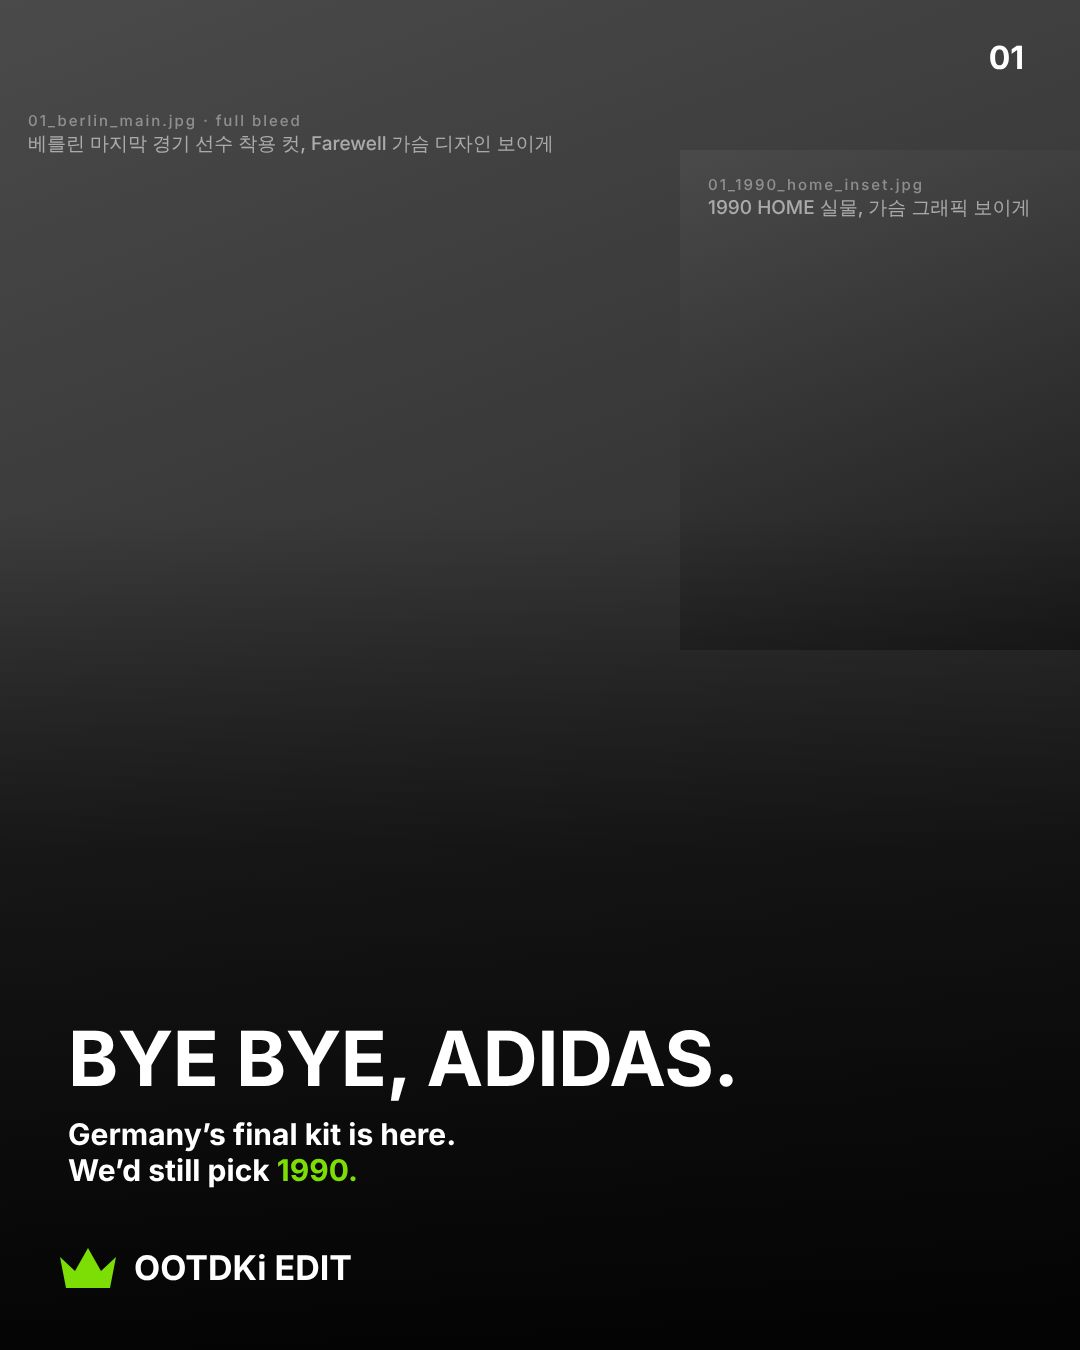
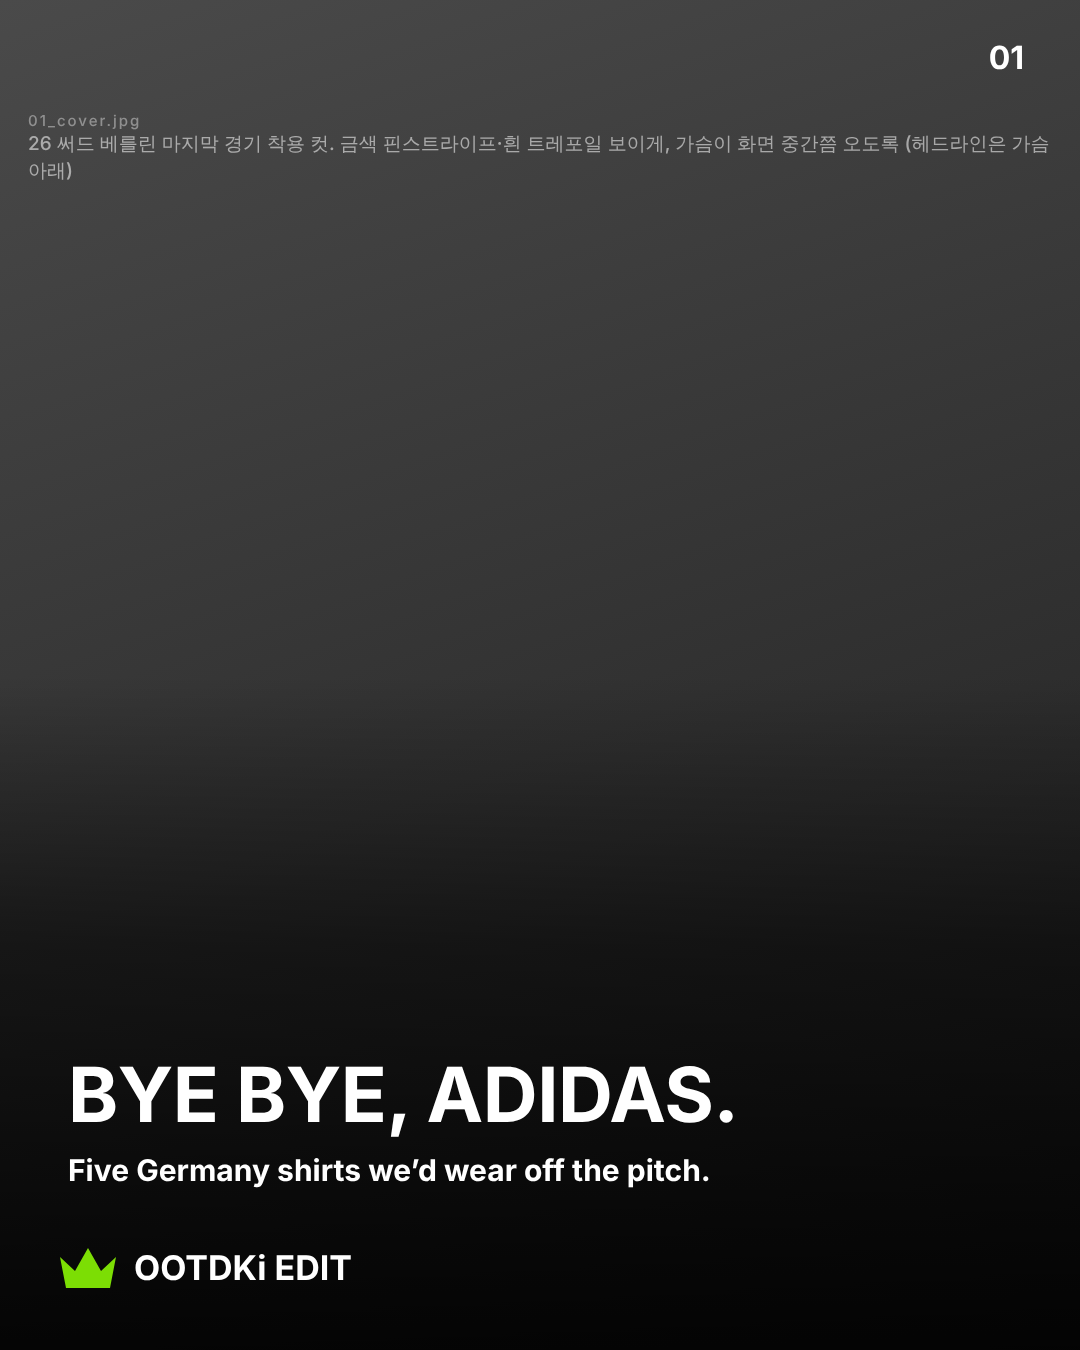
Carousel v3: 90H/94H/22H/26H/26 third lineup, 1/3 jersey + 2/3 look split
Claude-Session: https://claude.ai/code/session_01GpgvCArn8CBuwwCWMsWG9F

Changed region(s): [[0.0611, 0.7467, 0.6722, 0.9022], [0.6417, 0.0933, 0.9778, 0.1556], [0.0306, 0.0933, 0.6111, 0.1244]]

diff --git a/carousel_bye_bye_adidas/carousel.html b/carousel_bye_bye_adidas/carousel.html
@@ -21,104 +21,70 @@ h1{font-size:76px;line-height:1.02;text-transform:uppercase;letter-spacing:-.5px
 .g{color:var(--lime)}
 .foot{position:absolute;left:60px;bottom:62px;display:flex;align-items:center;gap:18px;font-size:34px;z-index:5}
 .crown{width:56px;height:40px}
+.pair{position:absolute;left:20px;z-index:4;font-size:26px;background:#000;color:#fff;padding:4px 10px}
+.card:not(:first-child) .ph .note{top:110px}
 </style></head><body>
 <svg width="0" height="0" style="position:absolute"><defs><symbol id="crown" viewBox="0 0 56 40"><path fill="#7CDE04" d="M0 9l15 14L28 0l13 23 15-14-6 31H6z"/></symbol></defs></svg>
 
-<!-- 01 COVER -->
+<!-- 01 COVER: 26 third, Berlin -->
 <section class="card">
-  <div class="ph" style="inset:0;--img:url(photos/01_berlin_main.jpg)"><p class="note"><i>01_berlin_main.jpg · full bleed</i>베를린 마지막 경기 선수 착용 컷, Farewell 가슴 디자인 보이게</p></div>
-  <div class="ph" style="right:0;top:150px;width:400px;height:500px;--img:url(photos/01_1990_home_inset.jpg)"><p class="note" style="top:24px"><i>01_1990_home_inset.jpg</i>1990 HOME 실물, 가슴 그래픽 보이게</p></div>
-  <div class="shade"></div>
+  <div class="ph" style="inset:0;--img:url(photos/01_cover.jpg)"><p class="note"><i>01_cover.jpg</i>26 써드 베를린 마지막 경기 착용 컷. 금색 핀스트라이프·흰 트레포일 보이게, 가슴이 화면 중간쯤 오도록 (헤드라인은 가슴 아래)</p></div>
+  <div class="shade" style="height:50%"></div>
   <span class="num">01</span>
-  <div class="text">
-    <h1>Bye bye, adidas.</h1>
-    <p class="body">Germany’s final kit is here.<br>We’d still pick <span class="g">1990.</span></p>
-  </div>
+  <div class="text"><h1>Bye bye, adidas.</h1><p class="body">Five Germany shirts we’d wear off the pitch.</p></div>
   <div class="foot"><svg class="crown"><use href="#crown"/></svg>OOTDKi EDIT</div>
 </section>
-
-<!-- 02 LAST MATCH -->
 <section class="card">
-  <div class="ph" style="left:0;top:0;width:1080px;height:640px;--img:url(photos/02_match.jpg)"><p class="note"><i>02_match.jpg</i>11월 16일 베를린 경기 사진 1장</p></div>
-  <div class="ph" style="left:0;top:640px;width:540px;height:710px;--img:url(photos/02_dfb_crest.jpg)"><p class="note" style="top:24px"><i>02_dfb_crest.jpg</i>옛 DFB 문장 확대 (칸 위쪽 1/2에 오도록)</p></div>
-  <div class="ph" style="left:540px;top:640px;width:540px;height:710px;--img:url(photos/02_trefoil.jpg)"><p class="note" style="top:24px"><i>02_trefoil.jpg</i>트레포일 확대 (칸 위쪽 1/2에 오도록)</p></div>
-  <div class="shade" style="height:48%"></div>
+  <div class="ph" style="left:0;top:0;width:360px;height:1350px;--img:url(photos/02_jersey.jpg)"><p class="note"><i>02_jersey.jpg</i>1990 서독 홈 정면. 가슴 삼색 그래픽 전체가 보이게</p></div>
+  <div class="ph" style="left:360px;top:0;width:720px;height:1350px;--img:url(photos/02_look.jpg)"><p class="note"><i>02_look.jpg</i>전신(신발까지): 중청 스트레이트 진, 앞단만 턱인, 빨간 발레 플랫</p></div>
+  <div class="shade"></div>
   <span class="num">02</span>
-  <div class="text">
-    <h1>One last night<br>in Berlin.</h1>
-    <p class="body">Germany beat the Netherlands 5–0 in their final men’s match wearing adidas. Nike takes over in January 2027.</p>
-  </div>
+  <div class="text"><p class="lab"><span style="text-transform:none">OOTDKi</span> No.1 · 1990 West Germany Home</p><h1 style="margin-top:10px">Our all-time<br>favourite.</h1><p class="body">Blue jeans. Red ballet flats.<br>That zigzag does the rest.</p></div>
   <div class="foot"><svg class="crown"><use href="#crown"/></svg>OOTDKi EDIT</div>
 </section>
-
-<!-- 03–06: left = jersey front, right = KL full look. Two photos flush, no gutter. -->
 <section class="card">
-  <div class="ph" style="left:0;top:0;width:540px;height:1350px;--img:url(photos/03_jersey.jpg)"><p class="note"><i>03_jersey.jpg</i>1990 서독 홈 저지 정면</p></div>
-  <div class="ph" style="left:540px;top:0;width:540px;height:1350px;--img:url(photos/03_look.jpg)"><p class="note"><i>03_look.jpg</i>KL 전신(신발까지): 중청 스트레이트 데님, 앞단 턱인, 빨간 플랫</p></div>
+  <div class="ph" style="left:0;top:0;width:360px;height:1350px;--img:url(photos/03_jersey.jpg)"><p class="note"><i>03_jersey.jpg</i>1994 독일 홈 정면. 양쪽 어깨 다이아몬드 패턴이 모두 보이게</p></div>
+  <div class="ph" style="left:360px;top:0;width:720px;height:1350px;--img:url(photos/03_look.jpg)"><p class="note"><i>03_look.jpg</i>정면에 가까운 전신: 루즈하게, 블랙 데님 미니, 흰 양말, 검정 로퍼</p></div>
   <div class="shade"></div>
   <span class="num">03</span>
-  <div class="text">
-    <p class="lab"><span style="text-transform:none">OOTDKi</span> NO.1 · 1990 West Germany Home</p>
-    <h1 style="margin-top:10px">The one we’d keep.</h1>
-    <p class="body">Blue jeans. Red flats.<br>Let the chest graphic do the rest.</p>
-  </div>
+  <div class="text"><p class="lab">1994 Germany Home</p><h1 style="margin-top:10px">Let the shoulders<br>do the talking.</h1><p class="body">Wear it loose over a black denim mini.</p></div>
   <div class="foot"><svg class="crown"><use href="#crown"/></svg>OOTDKi EDIT</div>
 </section>
-
 <section class="card">
-  <div class="ph" style="left:0;top:0;width:540px;height:1350px;--img:url(photos/04_jersey.jpg)"><p class="note"><i>04_jersey.jpg</i>1990 서독 그린 원정 저지 정면</p></div>
-  <div class="ph" style="left:540px;top:0;width:540px;height:1350px;--img:url(photos/04_look.jpg)"><p class="note"><i>04_look.jpg</i>KL 전신: 아이보리 긴팔 이너, 크림 롱스커트, 오트 히잡, 밑단 내려 입기</p></div>
+  <div class="ph" style="left:0;top:0;width:360px;height:1350px;--img:url(photos/04_jersey.jpg)"><p class="note"><i>04_jersey.jpg</i>2022 독일 홈 정면. 가슴 중앙 검정 세로 띠가 온전히 보이게</p></div>
+  <div class="ph" style="left:360px;top:0;width:720px;height:1350px;--img:url(photos/04_look.jpg)"><p class="note"><i>04_look.jpg</i>전신: 전부 턱인, 블랙 와이드 슬랙스, 얇은 검정 샌들 (띠가 팬츠로 이어지게)</p></div>
   <div class="shade"></div>
   <span class="num">04</span>
-  <div class="text">
-    <p class="lab">1990 West Germany Away</p>
-    <h1 style="margin-top:10px">Same year.<br>I’d take the green.</h1>
-    <p class="body">Wear it loose over a cream column skirt.</p>
-  </div>
+  <div class="text"><p class="lab">2022 Germany Home</p><h1 style="margin-top:10px">Follow the<br>black stripe.</h1><p class="body">Tuck it into black wide-leg trousers.</p></div>
   <div class="foot"><svg class="crown"><use href="#crown"/></svg>OOTDKi EDIT</div>
 </section>
-
 <section class="card">
-  <div class="ph" style="left:0;top:0;width:540px;height:1350px;--img:url(photos/05_jersey.jpg)"><p class="note"><i>05_jersey.jpg</i>2024 독일 원정 저지 정면</p></div>
-  <div class="ph" style="left:540px;top:0;width:540px;height:1350px;--img:url(photos/05_look.jpg)"><p class="note"><i>05_look.jpg</i>KL 전신: 밑단 빼 입기, 워시드 블랙 무릎 쇼츠, 실버 스니커즈</p></div>
+  <div class="ph" style="left:0;top:0;width:360px;height:540px;--img:url(photos/05_pattern_94.jpg)"><p class="note"><i>05_pattern_94.jpg</i>94 홈 패턴 크롭 (아래 26 홈과 같은 배율)</p></div>
+  <div class="ph" style="left:0;top:540px;width:360px;height:810px;--img:url(photos/05_pattern_26.jpg)"><p class="note" style="top:70px"><i>05_pattern_26.jpg</i>26 홈 패턴 크롭 (칸 위쪽 540px 안에 패턴, 94와 같은 배율)</p></div>
+  <span class="pair" style="top:500px">’94</span><span class="pair" style="top:560px">’26</span>
+  <div class="ph" style="left:360px;top:0;width:720px;height:1350px;--img:url(photos/05_look.jpg)"><p class="note"><i>05_look.jpg</i>모디스트 전신: 여유 있는 26 홈, 아이보리 손목 길이 이너, 스톤 맥시스커트(불투명), 가슴 덮는 오트 히잡</p></div>
   <div class="shade"></div>
   <span class="num">05</span>
-  <div class="text">
-    <p class="lab">2024 Germany Away</p>
-    <h1 style="margin-top:10px">Pink jersey.<br>Silver shoes.</h1>
-    <p class="body">Add washed-black jorts and you’re ready for a weekend in KL.</p>
-  </div>
+  <div class="text"><p class="lab">2026 Germany Home</p><h1 style="margin-top:10px">Spot the<br>’94 throwback.</h1><p class="body">Try the new zigzag with a stone maxi skirt.</p></div>
   <div class="foot"><svg class="crown"><use href="#crown"/></svg>OOTDKi EDIT</div>
 </section>
-
 <section class="card">
-  <div class="ph" style="left:0;top:0;width:540px;height:1350px;--img:url(photos/06_jersey.jpg)"><p class="note"><i>06_jersey.jpg</i>Farewell 서드 가슴 디테일 크게: 옛 DFB 문장 + 트레포일</p></div>
-  <div class="ph" style="left:540px;top:0;width:540px;height:1350px;--img:url(photos/06_look.jpg)"><p class="note"><i>06_look.jpg</i>KL 전신: 검정 플리츠 트라우저에 턱인, 얇은 로퍼</p></div>
+  <div class="ph" style="left:0;top:0;width:360px;height:1350px;--img:url(photos/06_jersey.jpg)"><p class="note"><i>06_jersey.jpg</i>26 써드 상반신 디테일: 흰 트레포일 + 옛 DFB 문장 함께</p></div>
+  <div class="ph" style="left:360px;top:0;width:720px;height:1350px;--img:url(photos/06_look.jpg)"><p class="note"><i>06_look.jpg</i>전신: 블랙 새틴 미디스커트, 작은 골드 후프, 슬링백</p></div>
   <div class="shade"></div>
   <span class="num">06</span>
-  <div class="text">
-    <p class="lab">2026 Germany Farewell Third</p>
-    <h1 style="margin-top:10px">The last one,<br>tucked in.</h1>
-    <p class="body">Black pleated trousers, slim loafers<br>and those two crests up front.</p>
-  </div>
+  <div class="text"><p class="lab">2026 Germany Farewell Third</p><h1 style="margin-top:10px">The last one deserves<br>a night out.</h1><p class="body">Black satin skirt. Gold hoops.<br>See you at dinner.</p></div>
   <div class="foot"><svg class="crown"><use href="#crown"/></svg>OOTDKi EDIT</div>
 </section>
-
-<!-- 07 CTA: black, four kits same size, names right under -->
+<!-- 07 CTA: wardrobe, 5 hangers -->
 <section class="card">
   <span class="num">07</span>
-  <div class="text" style="top:150px;bottom:auto"><h1 style="font-size:96px">You can<br>keep one.</h1></div>
-  <div style="position:absolute;left:0;right:0;top:470px;display:grid;grid-template-columns:repeat(4,270px)">
-    <div><div class="ph" style="position:relative;height:440px;--img:url(photos/07_1990_white.jpg)"><p class="note" style="top:16px"><i>07_1990_white</i></p></div><p class="lab" style="padding:18px 0 0 22px;font-size:30px">1990<br><span style="color:#fff">White</span></p></div>
-    <div><div class="ph" style="position:relative;height:440px;--img:url(photos/07_1990_green.jpg)"><p class="note" style="top:16px"><i>07_1990_green</i></p></div><p class="lab" style="padding:18px 0 0 22px;font-size:30px">1990<br><span style="color:#fff">Green</span></p></div>
-    <div><div class="ph" style="position:relative;height:440px;--img:url(photos/07_2024_pink.jpg)"><p class="note" style="top:16px"><i>07_2024_pink</i></p></div><p class="lab" style="padding:18px 0 0 22px;font-size:30px">2024<br><span style="color:#fff">Pink</span></p></div>
-    <div><div class="ph" style="position:relative;height:440px;--img:url(photos/07_2026_farewell.jpg)"><p class="note" style="top:16px"><i>07_2026_farewell</i></p></div><p class="lab" style="padding:18px 0 0 22px;font-size:30px">2026<br><span style="color:#fff">Farewell</span></p></div>
-  </div>
+  <div class="text" style="top:120px;bottom:auto"><h1 style="font-size:84px">Which one gets<br>hanger space?</h1></div>
+  <div class="ph" style="left:0;top:340px;width:1080px;height:720px;--img:url(photos/07_wardrobe.jpg)"><p class="note"><i>07_wardrobe.jpg</i>검정 배경 옷장: 실제 저지 5벌을 왼쪽부터 90H·94H·22H·26H·26 써드 순서로 같은 간격(216px)에 걸기</p></div>
+  <div style="position:absolute;left:0;right:0;top:1080px;display:grid;grid-template-columns:repeat(5,216px);text-align:center"><p class="lab" style="font-size:28px">90<br><span style="color:#fff">Home</span></p><p class="lab" style="font-size:28px">94<br><span style="color:#fff">Home</span></p><p class="lab" style="font-size:28px">22<br><span style="color:#fff">Home</span></p><p class="lab" style="font-size:28px">26<br><span style="color:#fff">Home</span></p><p class="lab" style="font-size:28px">26<br><span style="color:#fff">Third</span></p></div>
   <div class="foot"><svg class="crown"><use href="#crown"/></svg>@OOTDKi</div>
 </section>
-
 <script>
-// hide the placement note once the real photo loads
 document.querySelectorAll('.ph').forEach(el=>{const m=getComputedStyle(el).getPropertyValue('--img').match(/url\(["']?([^"')]+)/);if(!m)return;const i=new Image();i.onload=()=>el.classList.add('filled');i.src=m[1];});
 </script>
 </body></html>
